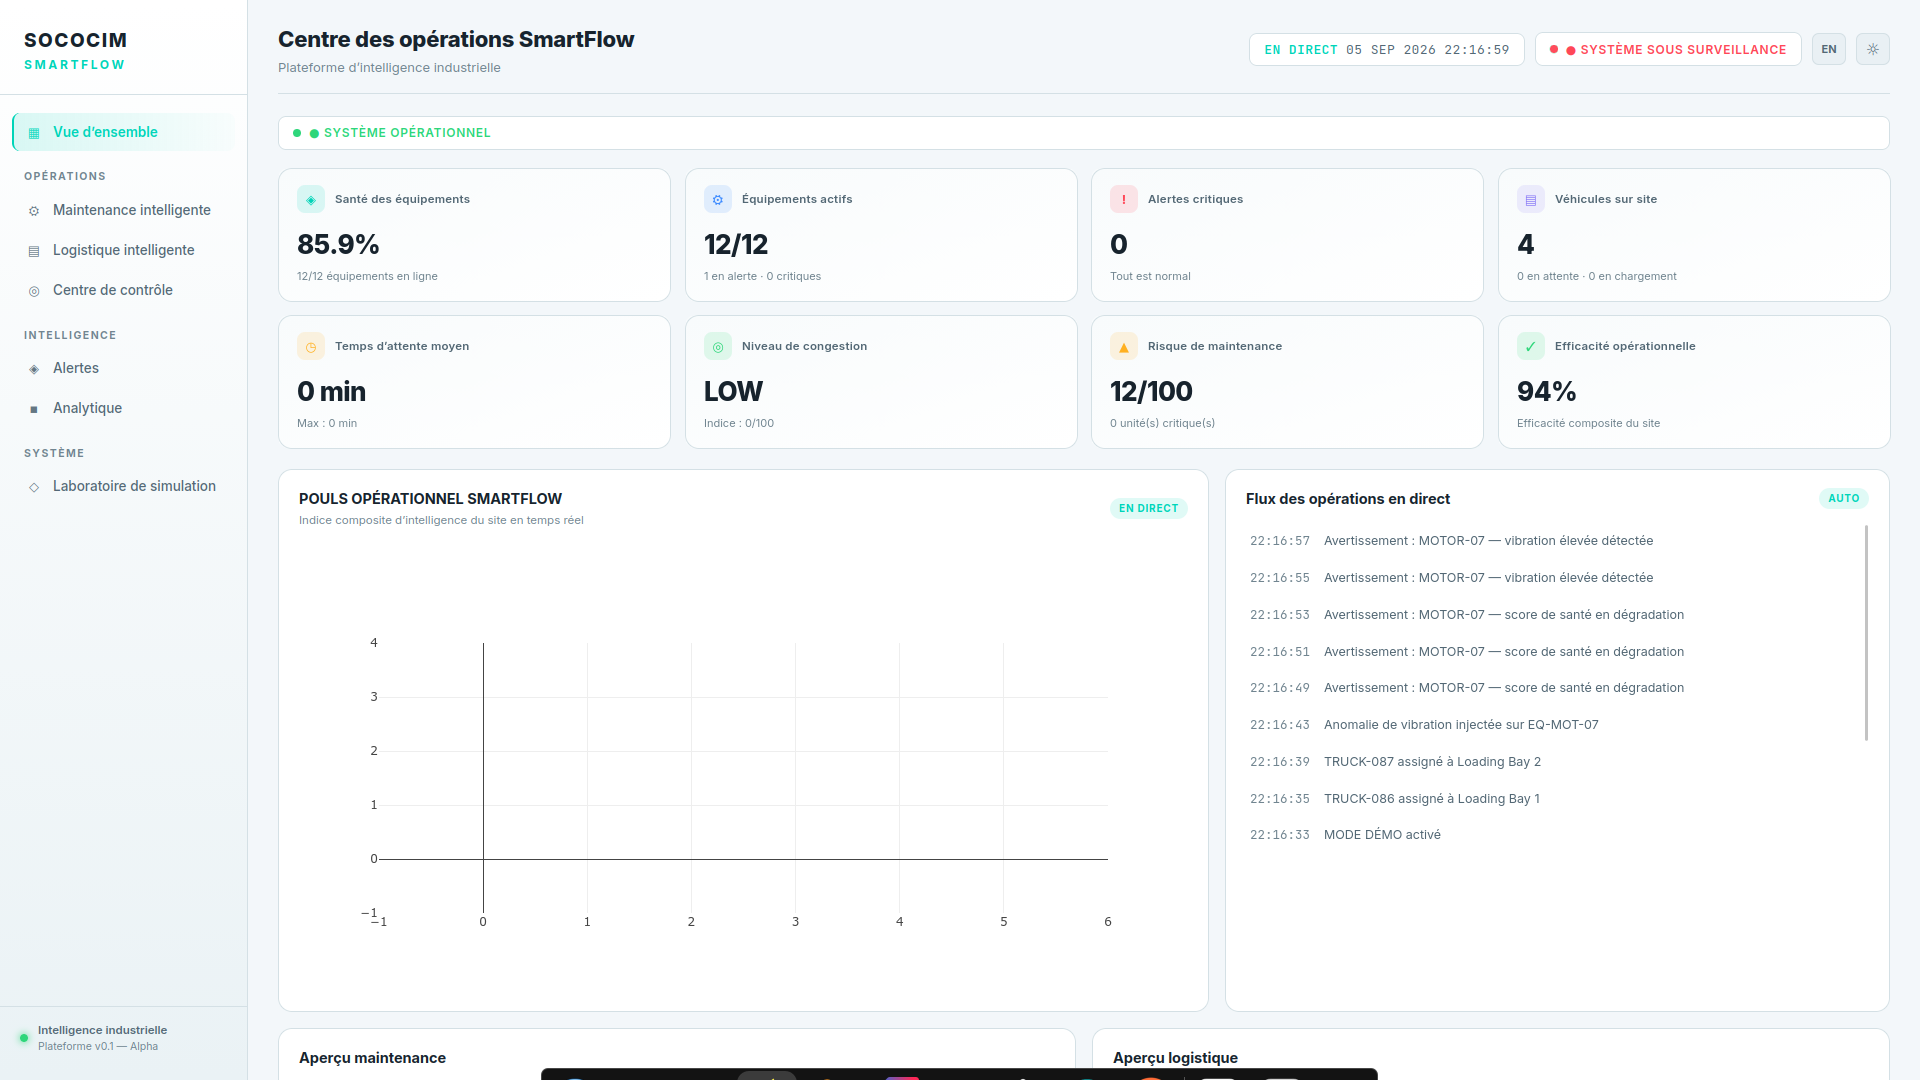
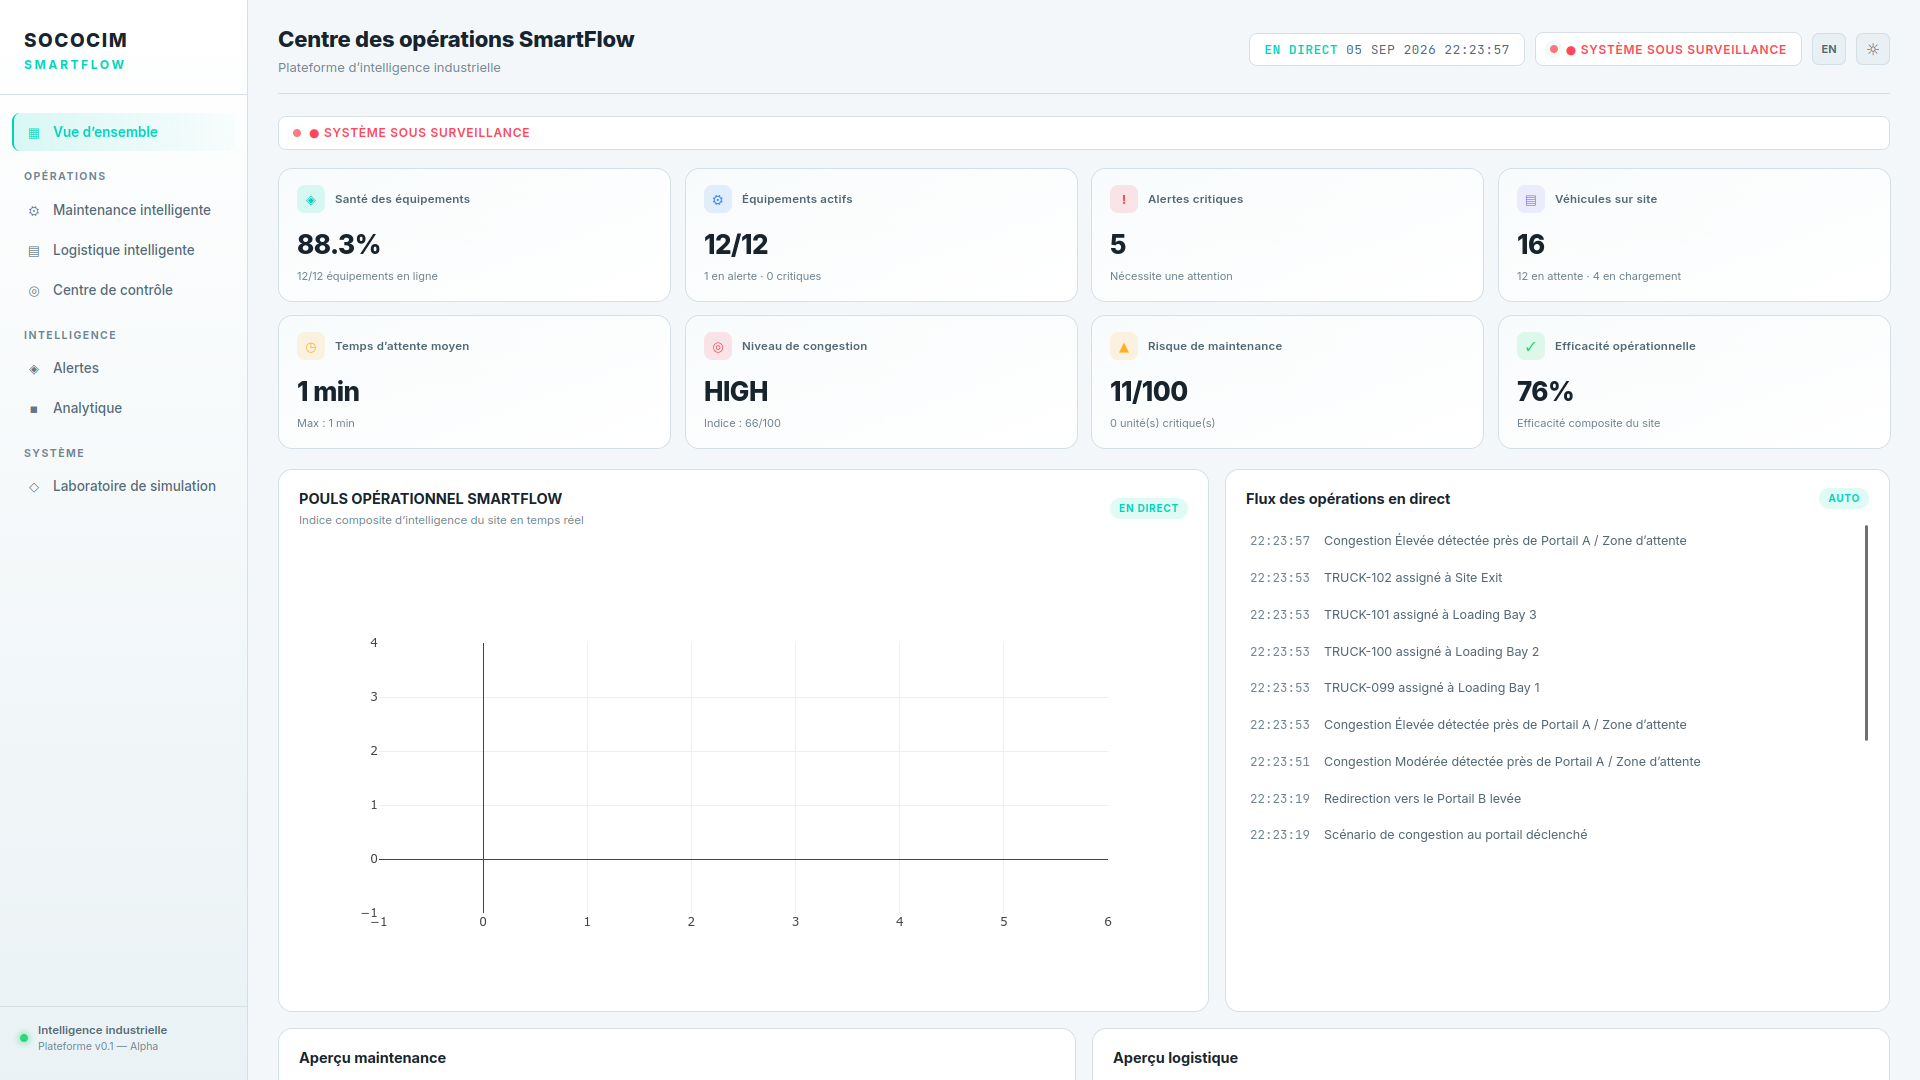
Refactor code structure for improved readability and maintainability

diff --git a/README.md b/README.md
@@ -39,12 +39,12 @@ La page **Overview** présente l'état global du site :
 #### Captures d'écran
 
 - `overview-fr.png` : vue principale en français, utilisée pour présenter l'état global du site dès l'ouverture ;
-![Vue d'ensemble de l'app](docs/screenshots/overview-fr.png)
+
+![Vue d'ensemble de l'app en Fr](docs/screenshots/overview-fr.png)
 
 - `overview-en.png` : même écran après bascule manuelle en anglais ;
-- `overview-live-feed-fr.png` : détail du flux d'opérations et des événements traduits.
 
-Les captures correspondantes seront placées dans [`docs/screenshots/`](docs/screenshots/). Elles doivent montrer la relation entre les KPI, le radar opérationnel et le flux d'événements.
+![Vue d'ensemble de l'app en En](docs/screenshots/overview-En.png)
 
 ### Smart Maintenance
 
@@ -58,15 +58,19 @@ La page **Smart Maintenance** permet de :
 - générer des recommandations selon les seuils métiers ;
 - déclencher des anomalies depuis le laboratoire de simulation.
 
-Les équipements sont représentés par des identifiants industriels simulés tels que `MOTOR-07`, `CRUSHER-01`, `CONVEYOR-02` ou `MIXER-03`.
-
 #### Captures d'écran
 
 - `maintenance-fr.png` : liste des équipements, statuts, scores de santé et mesures courantes ;
-- `maintenance-detail-fr.png` : vue détaillée d'un équipement sélectionné ;
-- `maintenance-anomaly-fr.png` : évolution visible après injection d'une anomalie et apparition de la recommandation.
 
-Chaque capture doit être accompagnée d'une courte description de l'action visible : surveillance, sélection, anomalie, évolution du score ou recommandation.
+![maintenance-fr.png](docs/screenshots/maintenance-fr.png)
+
+- `maintenance-detail-fr.png` : vue détaillée d'un équipement sélectionné : Motor-01 ;
+
+![maintenance-detail-fr.png](docs/screenshots/maintenance-detail-fr.png)
+
+- `maintenance-anomaly-fr.png` : évolution visible après injection d'une anomalie et apparition de la recommandation : Motor-01.
+
+![maintenance-anomaly-fr.png](docs/screenshots/maintenance-anomaly-fr.png)
 
 ### Smart Logistics
 
